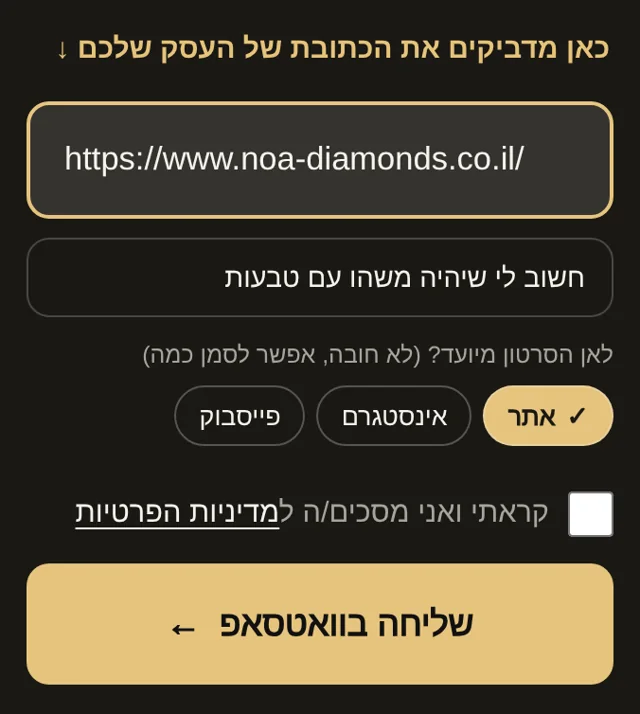
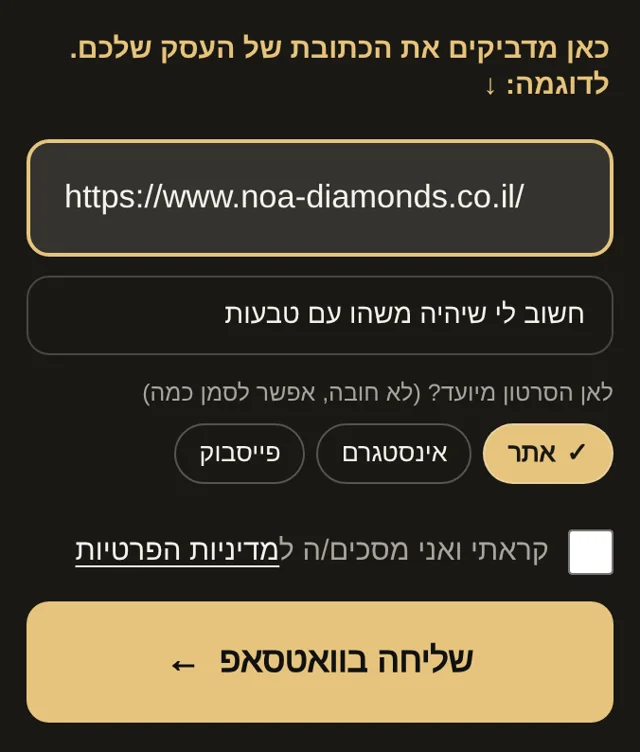
Link fields and the how-it-works picture say 'לדוגמה:' before the example address
Claude-Session: https://claude.ai/code/session_015Kj6wZhrCRAfSfrvuRRH85

diff --git a/index.html b/index.html
@@ -477,6 +477,7 @@ body>.wafb{position:fixed;inset-inline:16px;bottom:calc(88px + env(safe-area-ins
 .hscan{display:flex;flex-direction:column;gap:10px;margin-top:22px}
 .hscan input{flex:1;min-width:0;min-height:56px;padding:0 18px;border-radius:12px;border:1.5px solid rgba(246,243,236,.35);background:rgba(246,243,236,.08);color:var(--inv-ink);font-size:1.0625rem}
 .hscan input::placeholder{color:var(--inv-muted)}
+input[inputmode=url]::placeholder{font-size:.875rem}input[inputmode=url]:placeholder-shown{text-overflow:ellipsis}
 .hscan input:focus{outline:3px solid var(--accent);outline-offset:1px;border-color:transparent}
 .hscan .btn{flex:none;width:100%}
 .hscan input[type=text]{flex:none}
@@ -846,7 +847,7 @@ dialog .undo{bottom:24px}
           <p class="lead">מדביקים קישור לאתר או לאינסטגרם של העסק. אנחנו לומדים את המוצרים, הצבעים והסגנון שלכם, ובונים מזה 3 רעיונות לפרסומות. נשלח לכם בוואטסאפ את כל הרעיונות, כולל הצעת מחיר. <a class="howlink" href="#how-scan">איך זה עובד?</a></p>
           <form class="hscan" id="hscan" novalidate>
             <label class="sr" for="hscanUrl">קישור לאתר או לאינסטגרם של העסק</label>
-            <input type="text" id="hscanUrl" data-r="url" inputmode="url" autocomplete="url" dir="ltr" placeholder="https://www.noa-diamonds.co.il/">
+            <input type="text" id="hscanUrl" data-r="url" inputmode="url" autocomplete="url" dir="ltr" placeholder="לדוגמה: https://www.noa-diamonds.co.il/">
             <label class="sr" for="hscanNote">הערות (לא חובה)</label>
             <input type="text" id="hscanNote" data-r="note" placeholder="הערות (לא חובה)">
             <div class="hdest" data-r="dest" role="group" aria-labelledby="hdestL"><span class="hdest-l" id="hdestL">לאן הסרטון מיועד? <small>(לא חובה, אפשר לסמן כמה)</small></span><div class="hdest-b"><button type="button" aria-pressed="false">אתר</button><button type="button" aria-pressed="false">אינסטגרם</button><button type="button" aria-pressed="false">פייסבוק</button></div></div>
@@ -887,7 +888,7 @@ dialog .undo{bottom:24px}
       </div>
       <div class="hw-p" id="how-scan" role="tabpanel" aria-labelledby="hwt-scan">
         <p class="hw-line">מדביקים קישור לעסק, מקבלים 3 תסריטים בוואטסאפ, ובוחרים אחד.</p>
-        <div class="hw-row"><button type="button" class="hw-s" aria-expanded="false" data-big="how/a1.webp?10" data-h="מדביקים קישור לעסק" data-d="מדביקים קישור לאתר או לאינסטגרם. אנחנו &lt;b&gt;סורקים את העסק&lt;/b&gt;, לומדים את המוצרים והסגנון, ו&lt;b&gt;בוחרים רעיונות שמתאימים בדיוק לו&lt;/b&gt;." data-ill="0"><span class="ph"><img src="how/a1-s.webp?10" alt="" loading="lazy" width="300" height="300"><i aria-hidden="true">1</i></span><b>מדביקים קישור</b></button><button type="button" class="hw-s" aria-expanded="false" data-big="how/a2.webp?7" data-h="מקבלים 3 תסריטים ובוחרים" data-d="לומדים את המוצרים, הצבעים והסגנון שלכם, ושולחים לכם בוואטסאפ 3 תסריטים שנכתבו בשביל העסק שלכם. בכל תסריט: המוצר שנבחר מהאתר שלכם, הסיפור בקצרה, הסצנות והמחיר. עונים איזה תסריט אהבתם, למשל &quot;אחד נשמע טוב&quot;." data-ill="1"><span class="ph"><img src="how/a2-s.webp?7" alt="" loading="lazy" width="300" height="300"><i aria-hidden="true">2</i><em>המחשה</em></span><b>בוחרים תסריט</b></button><button type="button" class="hw-s" aria-expanded="false" data-big="how/a3.webp?7" data-h="מקבלים את הסרטון" data-d="תוך 2 ימי עסקים הסרטון מגיע אליכם בוואטסאפ, מוכן לאינסטגרם, לטיקטוק ולאתר. רוצים לשנות משהו קטן? כותבים לנו." data-ill="1"><span class="ph"><img src="how/a3-s.webp?7" alt="" loading="lazy" width="300" height="300"><i aria-hidden="true">3</i><em>המחשה</em></span><b>מקבלים סרטון</b></button></div>
+        <div class="hw-row"><button type="button" class="hw-s" aria-expanded="false" data-big="how/a1.webp?11" data-h="מדביקים קישור לעסק" data-d="מדביקים קישור לאתר או לאינסטגרם. אנחנו &lt;b&gt;סורקים את העסק&lt;/b&gt;, לומדים את המוצרים והסגנון, ו&lt;b&gt;בוחרים רעיונות שמתאימים בדיוק לו&lt;/b&gt;." data-ill="0"><span class="ph"><img src="how/a1-s.webp?11" alt="" loading="lazy" width="300" height="300"><i aria-hidden="true">1</i></span><b>מדביקים קישור</b></button><button type="button" class="hw-s" aria-expanded="false" data-big="how/a2.webp?7" data-h="מקבלים 3 תסריטים ובוחרים" data-d="לומדים את המוצרים, הצבעים והסגנון שלכם, ושולחים לכם בוואטסאפ 3 תסריטים שנכתבו בשביל העסק שלכם. בכל תסריט: המוצר שנבחר מהאתר שלכם, הסיפור בקצרה, הסצנות והמחיר. עונים איזה תסריט אהבתם, למשל &quot;אחד נשמע טוב&quot;." data-ill="1"><span class="ph"><img src="how/a2-s.webp?7" alt="" loading="lazy" width="300" height="300"><i aria-hidden="true">2</i><em>המחשה</em></span><b>בוחרים תסריט</b></button><button type="button" class="hw-s" aria-expanded="false" data-big="how/a3.webp?7" data-h="מקבלים את הסרטון" data-d="תוך 2 ימי עסקים הסרטון מגיע אליכם בוואטסאפ, מוכן לאינסטגרם, לטיקטוק ולאתר. רוצים לשנות משהו קטן? כותבים לנו." data-ill="1"><span class="ph"><img src="how/a3-s.webp?7" alt="" loading="lazy" width="300" height="300"><i aria-hidden="true">3</i><em>המחשה</em></span><b>מקבלים סרטון</b></button></div>
         <p class="hw-hint">לחיצה על תמונה פותחת הסבר מפורט.</p>
         <div class="hw-d" hidden><div class="hw-dimg"><img alt=""><em hidden>המחשה</em></div><div class="hw-dt"><h3></h3><p></p><button type="button" class="hw-dx">סגירה</button></div></div>
         <div class="hw-cta"><button class="btn gold" type="button" data-scan>שלחו לי רעיונות <span class="arr" aria-hidden="true">←</span></button></div>
@@ -949,7 +950,7 @@ dialog .undo{bottom:24px}
       </div>
       <div class="scan-band"><div><b>לא יודעים מה לבחור?</b><span>צרפו קישור לאתר או לאינסטגרם שלכם, ונשלח לכם רעיונות לפרסומות שנבנו במיוחד בשביל העסק שלכם, על סמך מחקר.</span></div><form class="hscan bscan" id="bscan" novalidate>
             <label class="sr" for="bscanUrl">קישור לאתר או לאינסטגרם של העסק</label>
-            <input type="text" id="bscanUrl" data-r="url" inputmode="url" autocomplete="url" dir="ltr" placeholder="https://www.noa-diamonds.co.il/">
+            <input type="text" id="bscanUrl" data-r="url" inputmode="url" autocomplete="url" dir="ltr" placeholder="לדוגמה: https://www.noa-diamonds.co.il/">
             <label class="agree hagree"><input type="checkbox" data-r="agree"><span>קראתי ואני מסכים/ה ל<a href="privacy.html" target="_blank" rel="noopener">מדיניות הפרטיות</a></span></label>
             <p class="hscan-err" data-r="err" role="alert" hidden></p>
             <button class="btn gold" type="submit">שליחה בוואטסאפ <span class="arr" aria-hidden="true">←</span></button>
@@ -1056,7 +1057,7 @@ dialog .undo{bottom:24px}
   <h2 id="scanT">שלחו את העסק, נבנה לכם סרטון</h2>
   <p class="scan-sub">נעבור על האתר או האינסטגרם שלכם: המוצרים, הצבעים והסגנון. אחר כך נשלח לכם בוואטסאפ 3 רעיונות לסרטון, כל אחד עם מחיר. בוחרים רעיון, ותוך 2 ימי עסקים הסרטון מוכן. הרעיונות בחינם ובלי התחייבות.</p>
   <label class="l" for="scanUrl">אתר או אינסטגרם של העסק</label>
-  <input type="text" id="scanUrl" inputmode="url" autocomplete="url" dir="ltr" placeholder="https://www.noa-diamonds.co.il/" required>
+  <input type="text" id="scanUrl" inputmode="url" autocomplete="url" dir="ltr" placeholder="לדוגמה: https://www.noa-diamonds.co.il/" required>
   <p class="scan-err" id="scanErr" role="alert" hidden>כתבו קישור לאתר או את שם המשתמש באינסטגרם.</p>
   <label class="l" for="scanProd">איזה מוצר לקדם? <span class="hint">(לא חובה)</span></label>
   <input type="text" id="scanProd" placeholder="למשל: עגילי זהב, קרם פנים">
